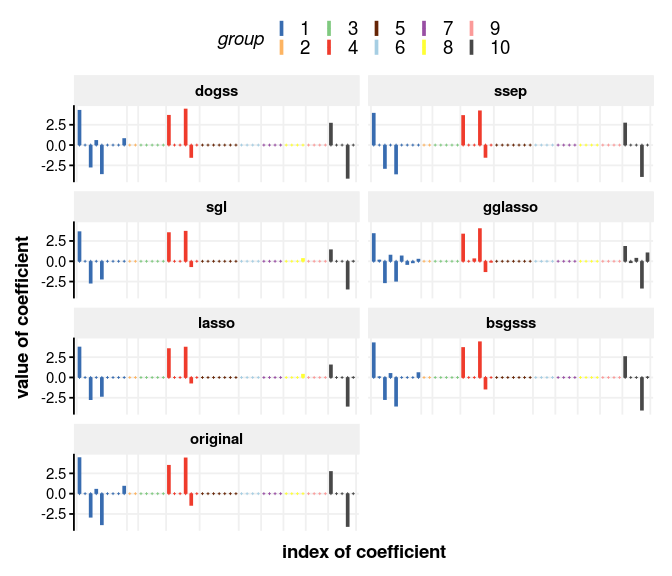
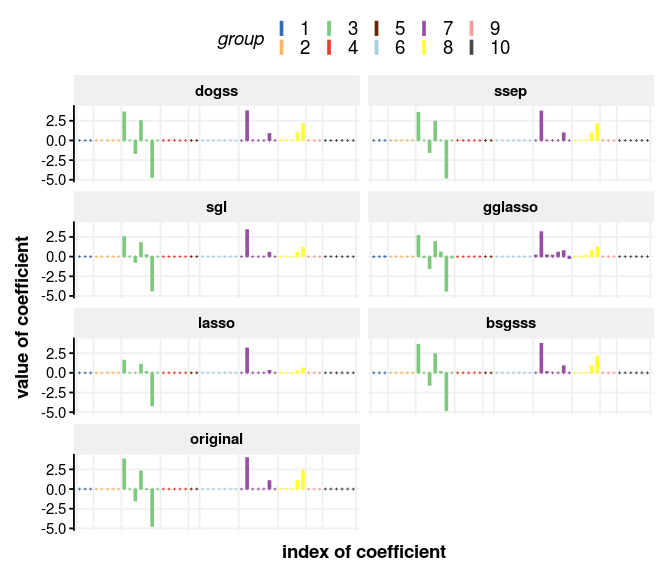
started noise, finsihed sml part

diff --git a/notebooks/signal_recovery/signal_recovery.md b/notebooks/signal_recovery/signal_recovery.md
@@ -6,7 +6,7 @@ Edgar Steiger
 -   [Simulation](#simulation)
 -   [Comparison of methods - Needle plot](#comparison-of-methods---needle-plot)
 -   [Three scenarios for feature selection](#three-scenarios-for-feature-selection)
-    -   [small, medium and large signal recovery problems](#small-medium-and-large-signal-recovery-problems)
+    -   [small](#small)
     -   [medium](#medium)
     -   [large](#large)
 -   [Noise](#noise)
@@ -26,7 +26,9 @@ library(MBSGS) # Bayesian feature selection with Gibbs sampling
 
 library(ggplot2) # for nice plots
 library(ggthemes) # for even nicer plots
-library(grid) # to arrange plots pleasantly
+library(grid); library(gridExtra) # to arrange plots pleasantly
+
+library(reshape2) # to melt data into "tidy" long-format
 
 library(DescTools) # for area computations (AUROC, AUPR)
 ```
@@ -251,15 +253,13 @@ parallel_signalrecovery <- function(m, p, nG, nzG, k, sigma0, ncores, B) {
 
 I provide the necessary data from my simulations to reconstruct the publication's plots. I will give the code that generated this data, but this code is marked to not be evaluated in this markdown file, instead only the side-loading of the RData-files is enabled. Feel free to re-run the generating code chunks on your local cluster!
 
-### small, medium and large signal recovery problems
-
 Here we will compare the different methods on three different problems. This code generated the necessary data for the plots (again, this code is set to *not* be evaluated within this markdown file):
 
 ``` r
 results_sr <- list()
 results_sr[[1]] <- parallel_signalrecovery(m=30, p=30, nG=5, nzG=nzG, k=5, sigma0=sigma0, ncores=ncores, B=B)
-results_sr[[2]]
-results_sr[[3]]
+results_sr[[2]] <- parallel_signalrecovery(m=30, p=100, nG=20, nzG=nzG, k=10, sigma0=sigma0, ncores=ncores, B=B)
+results_sr[[3]] <- parallel_signalrecovery(m=100, p=1000, nG=100, nzG=nzG, k=10, sigma0=sigma0, ncores=ncores, B=B)
 ```
 
 Instead, we load the data:
@@ -268,19 +268,20 @@ Instead, we load the data:
 load("results_sr_sml.RData")
 ```
 
-This is the code that generated Figures 3, 4 and 5:
+This is the code that generates Figures 3, 4 and 5:
 
 ``` r
-auroc <- matrix(0, nrow=100, ncol=6, dimnames=list(run=1:100, method=names(results[[1]]$onetwothree[[i]]$AUROC)))
+plot_sml <- function(sml) {
+  auroc <- matrix(0, nrow=B, ncol=6, dimnames=list(run=1:B, method=names(results_sr[[sml]][[1]]$AUROC)))
 aupr <- auroc
-prederror <- matrix(0, nrow=100, ncol=6, dimnames=list(run=1:100, method=names(results[[1]]$onetwothree[[i]]$prederror)))
-times <- matrix(0, nrow=100, ncol=6, dimnames=list(run=1:100, method=names(results[[1]]$onetwothree[[i]]$times)))
+prederror <- matrix(0, nrow=B, ncol=6, dimnames=list(run=1:B, method=names(results_sr[[sml]][[1]]$prederror)))
+times <- matrix(0, nrow=B, ncol=6, dimnames=list(run=1:B, method=names(results_sr[[sml]][[1]]$times)))
 
 for (b in 1:B) {
-  auroc[b, ] <- results[[b]]$onetwothree[[i]]$AUROC
-  aupr[b, ] <- results[[b]]$onetwothree[[i]]$AUPR
-  prederror[b, ] <- results[[b]]$onetwothree[[i]]$prederror
-  times[b, ] <- results[[b]]$onetwothree[[i]]$times
+  auroc[b, ] <- results_sr[[sml]][[b]]$AUROC
+  aupr[b, ] <- results_sr[[sml]][[b]]$AUPR
+  prederror[b, ] <- results_sr[[sml]][[b]]$prederror
+  times[b, ] <- results_sr[[sml]][[b]]$times
 }
 
 data <- data.frame(melt(auroc), measure="auroc")
@@ -320,7 +321,7 @@ P_prederror <- ggplot(prederror_data, aes(x=method, y=value)) +
   geom_boxplot() +
   theme_Ed() +
   scale_colour_Ed() +
-  ylim(0,1) +
+  scale_y_continuous(breaks=c(0, 0.25, 0.5, 0.75, 1), limits=c(0, max(1, max(prederror)))) +
   # scale_y_log10() +
   labs(y="pred. error") +
   theme(axis.title.x=element_blank(),
@@ -342,20 +343,43 @@ Pd_times <- ggplot_build(P_times)$data[[1]]
 P_times <- P_times + geom_segment(data=Pd_times, aes(x=xmin, xend=xmax, y=middle, yend=middle, colour=unique(data$method)), size=1) + labs(colour="method") + scale_y_log10() 
 
 grid_arrange_shared_legend(P_auroc, P_aupr, P_prederror, P_times, ncol = 2, nrow = 2, which.legend = 4)
+}
 ```
+
+### small
+
+Here **m=30** (number of observations), **p=30** (number of features), **nG=5** (number of groups), **k=5** (number of non-zero coefficients). Figure 3:
+
+``` r
+plot_sml(1)
+```
+
+![](signal_recovery_files/figure-markdown_github/figure3-1.png)
 
 ### medium
 
-Here **m=30** (number of observations), **p=100** (number of features), **nG=20** (number of groups), **k=10** (number of non-zero coefficients).
+Here **m=30** (number of observations), **p=100** (number of features), **nG=20** (number of groups), **k=10** (number of non-zero coefficients). Figure 4:
+
+``` r
+plot_sml(2)
+```
+
+![](signal_recovery_files/figure-markdown_github/figure4-1.png)
 
 ### large
 
-Here **m=10** (number of observations), **p=1000** (number of features), **nG=100** (number of groups), **k=10** (number of non-zero coefficients).
+Here **m=10** (number of observations), **p=1000** (number of features), **nG=100** (number of groups), **k=10** (number of non-zero coefficients). Figure 5:
+
+``` r
+plot_sml(3)
+```
+
+![](signal_recovery_files/figure-markdown_github/figure5-1.png)
 
 Noise
 -----
 
-contents, F6
+Next we analyze how sensitive the methods are in regards to the noise level.
 
 Correlation structure
 ---------------------
